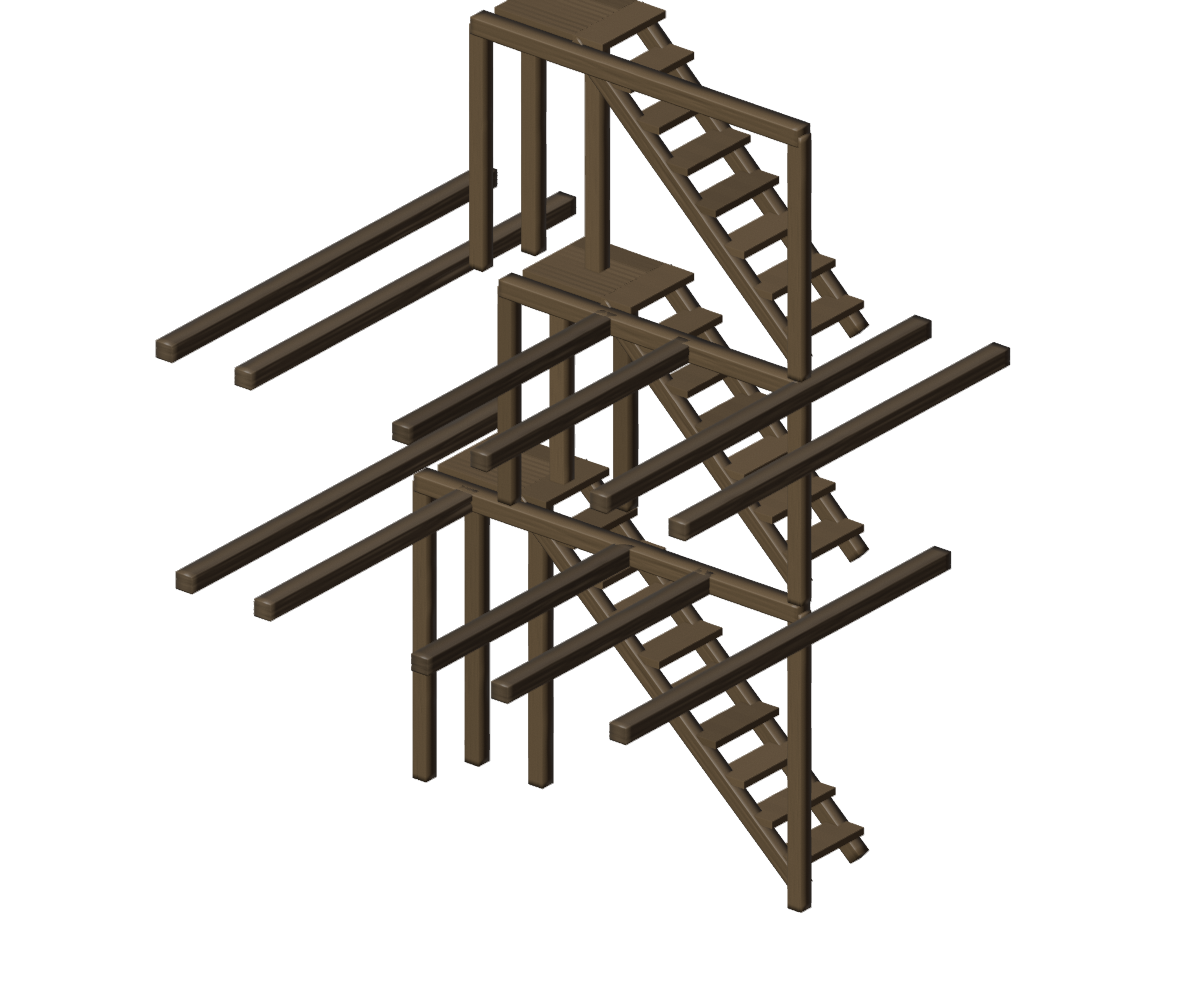
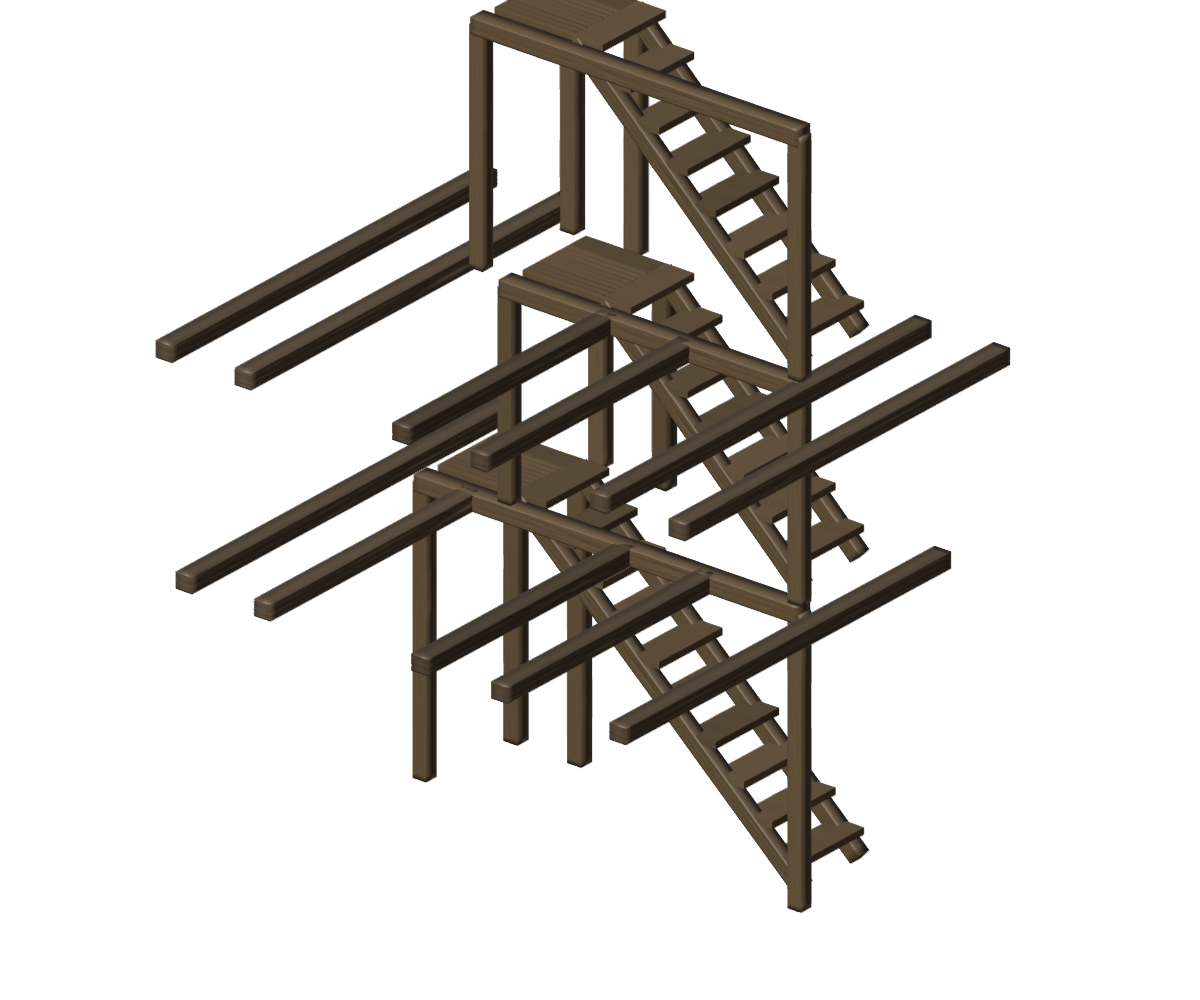
Move stair landing posts to wall and verify all stair supports

Changed region(s): [[0.37, 0.31, 0.5858, 0.806], [0.4317, 0.031, 0.555, 0.341], [0.4933, 0.031, 0.555, 0.062]]

diff --git a/tests/blender_stair_clearance.py b/tests/blender_stair_clearance.py
@@ -11,13 +11,13 @@ from blender_v032 import render
 
 
 def run():
-    'IA: Genera tres plantas con apoyos interiores forzados y exige que ningún poste de forjado cruce la caja de peldaños o desembarcos.'
+    'IA: Genera tres plantas de alturas distintas y exige que apoyos de forjado y de la propia escalera no crucen ninguna huella ni desembarco.'
     addon.register();runtime.busy=True;runtime.preview=True;results=[]
     for side in ('LEFT','RIGHT'):
         bpy.ops.wm.read_factory_settings(use_empty=True);scene=bpy.context.scene;p=scene.ruin_settings
         for key,value in dict(layout_mode='ROOM',height_type='THREE',length=190,building_depth=90,ground_storey_height=75,upper_storey_height=55,stair_type='WOOD',stair_side=side,roof_frame=True,roof_type='TOWER',collapse=.35,hole_count=0,cracks=0,rubble_amount=0,ground_roughness=0,wood_damage=0,batch_preview=False).items():setattr(p,key,value)
         coll=addon.generate(bpy.context,p,'WORK');assert not closure(coll)['open_edges']
-        posts=[o for o in coll.objects if primitives.piece_key(o) in ('Madera · poste forjado','Madera · viga de planta','Madera · viga forjado')]
+        posts=[o for o in coll.objects if primitives.piece_key(o) in ('Madera · poste forjado','Madera · viga de planta','Madera · viga forjado','Madera · poste desembarco','Madera · poste hueco escalera','Madera · travesaño desembarco')]
         treads=[o for o in coll.objects if o.name.startswith(('Madera · peldaño','Madera · desembarco'))]
         assert posts and treads
         conflicts=[]
@@ -32,7 +32,7 @@ def run():
         for ob in coll.objects:ob.hide_render=not (ob.get('stair') or ob in posts)
         render(scene,ROOT/('reports/stair_clearance_%s.png'%side),focus=(0,55,90),location=(220,-220,260),scale=265)
         for ob,value in hidden.items():ob.hide_render=value
-        bpy.ops.wm.save_as_mainfile(filepath=str(ROOT/('dist/ruinas_v03217_escalera_%s.blend'%side)))
+        bpy.ops.wm.save_as_mainfile(filepath=str(ROOT/('dist/ruinas_v03218_escalera_%s.blend'%side)))
     (ROOT/'reports/stair_clearance.json').write_text(json.dumps(results,indent=2),encoding='utf8')
     print('STAIR_CLEARANCE_PASSED',flush=True)
 

diff --git a/src/ruinas_panel/structure/stairs.py b/src/ruinas_panel/structure/stairs.py
@@ -160,7 +160,7 @@ def stone_tread(coll,stone,name,a,b,ya,yb,top,amount,seed):
 
 
 def build(coll,p,scene,plan):
-    'IA: Peldaños y zancas o macizo; cabecero cubre tramo y desembarco, postes de llegada retranqueados bajo su plataforma; conserva alivio bajo losas.'
+    'IA: Peldaños y zancas o macizo; cabecero cubre tramo y desembarco, postes de llegada junto al muro fuera de las huellas y travesaños bajo plataforma; conserva alivio bajo losas.'
     meta.put(scene,'escalera_generada',plan or {})
     if not plan or 'error' in plan:return
     s=plan;wood=primitives.material('Madera · escalera',(.34,.235,.13));stone=primitives.material('Piedra · neutro',(.52,.52,.52))
@@ -200,7 +200,11 @@ def build(coll,p,scene,plan):
         ob['stair']=True
     ob=timber.timber_beam(coll,wood,'Madera · cabecero escalera',(header_left-3,hy,(layout.upper_floor(p)-3.6)),(header_right+3,hy,(layout.upper_floor(p)-3.6)),4.2,4.7,p.seed+27400);ob['stair']=True
     for x in (s['landing'][0]+2.2,s['landing'][1]-2.2):
-        ob=timber.timber_beam(coll,wood,'Madera · poste desembarco',(x,(ya+yb)/2,.7),(x,(ya+yb)/2,s['top']-1.5),4,4,p.seed+round(x*7));ob['stair']=True
+        # Fuera de las huellas de TODOS los tramos, también cuando cambia
+        # la longitud de la escalera superior por la altura de planta.
+        post_y=yb+2.5
+        ob=timber.timber_beam(coll,wood,'Madera · poste desembarco',(x,post_y,.7),(x,post_y,s['top']-5),4,4,p.seed+round(x*7));ob['stair']=True
+        ob=timber.timber_beam(coll,wood,'Madera · travesaño desembarco',(x,hy,s['top']-3.4),(x,post_y,s['top']-3.4),3.2,3.6,p.seed+round(x*7)+1);ob['stair']=True
     a,b=s['landing']
     for i in range(4):
         ob=floors.plank(coll,wood,'Madera · desembarco %s'%i,a,b,ya+(i+.5)*(yb-ya)/4,(yb-ya)/4-.08,s['top'],p.seed+27500+i,p.wood_grain);ob['stair']=True

diff --git a/dev.py b/dev.py
@@ -122,13 +122,13 @@ def pack(project=False):
     """IA: empaqueta únicamente fuentes del addon; excluye cachés, renders y pruebas del ZIP instalable."""
     check()
     out=ROOT/'dist';out.mkdir(exist_ok=True)
-    target=out/'ruinas_panel_v03217.zip'
+    target=out/'ruinas_panel_v03218.zip'
     with zipfile.ZipFile(target,'w',zipfile.ZIP_DEFLATED) as archive:
         for file in sorted(SOURCE.rglob('*.py')):archive.write(file,file.relative_to(SOURCE.parent))
     with zipfile.ZipFile(target) as archive:assert archive.testzip() is None
     print('PACKAGED',target)
     if project:
-        bundle=out/'ruinas_desarrollo_v03217.zip'
+        bundle=out/'ruinas_desarrollo_v03218.zip'
         files=[ROOT/'README.md',ROOT/'AGENTS.md',ROOT/'dev.py',ROOT/'.gitignore',target]
         for folder in ('src','tools','tests','docs','agent'):
             files.extend(p for p in (ROOT/folder).rglob('*') if p.is_file() and '__pycache__' not in p.parts and p.suffix!='.pyc')

diff --git a/src/ruinas_panel/__init__.py b/src/ruinas_panel/__init__.py
@@ -3,7 +3,7 @@
 bl_info = {
     'name': 'Ruinas — Muro de fantasía',
     'author': 'Codex',
-    'version': (0, 32, 17),
+    'version': (0, 32, 18),
     'blender': (5, 0, 0),
     'location': 'Vista 3D > N > Ruinas',
     'category': 'Add Mesh',

diff --git a/src/ruinas_panel/config.py b/src/ruinas_panel/config.py
@@ -4,7 +4,7 @@
 
 
 COLLECTION = 'MURO · fuente procedural'
-BUILD_ID = '0.32.17'
+BUILD_ID = '0.32.18'
 ROOF_DAMAGE_SAMPLE_MM = 1.0
 SHAKE_FRAMES = 10
 SHAKE_EXPIRE_FRAME = 5

diff --git a/docs/V03218.md b/docs/V03218.md
@@ -1,0 +1,21 @@
+# Ruinas 0.32.18 — postes del desembarco
+
+Los postes propios del desembarco podían atravesar el tramo inferior cuando
+las plantas tenían alturas distintas. La prueba anterior solo revisaba los
+apoyos del forjado y no detectaba estos postes.
+
+Los postes de llegada se desplazan al borde junto al muro, parcialmente
+alojados en su espesor. Dos travesaños bajo cada plataforma unen este apoyo
+con el cabecero. Las huellas quedan libres también al cambiar el sentido
+del ascenso. No se aumenta la densidad de las piezas existentes.
+
+La prueba incluye ahora postes del desembarco, postes del hueco y travesaños,
+además de vigas y postes del forjado. Se comprueban tres tramos de madera,
+alturas distintas, ambos sentidos, cierre de mallas e inspección visual.
+No constituye una validación física completa de los nuevos alojamientos
+en mampostería ni de todas las combinaciones de parámetros.
+
+Reinicia Blender con el addon actualizado y regenera la casa.
+Los ejemplos `ruinas_v03218_escalera_LEFT.blend` y
+`ruinas_v03218_escalera_RIGHT.blend` contienen geometría editable.
+Los laboratorios ya preparados deben generarse de nuevo.

diff --git a/docs/STATUS.md b/docs/STATUS.md
@@ -1,5 +1,9 @@
 # Estado del proyecto
 
+## v0.32.18 — 2026-10-20
+
+Postes del desembarco junto al muro y travesaños inferiores. La regresión incluye los apoyos de la propia escalera contra todas las huellas, además del forjado: tres tramos, alturas distintas y ambos sentidos. Alcance y limitación de validación física en `V03218.md`.
+
 ## v0.32.17 — 2026-10-19
 
 Reserva de escalera por planta, incluido desembarco y ancho de vigas; cabecero prolongado y postes de llegada retranqueados. Prueba de tres plantas en ambos sentidos, sin cruces volumétricos de vigas/postes de forjado contra peldaños o desembarcos. Uso y alcance en `V03217.md`.
